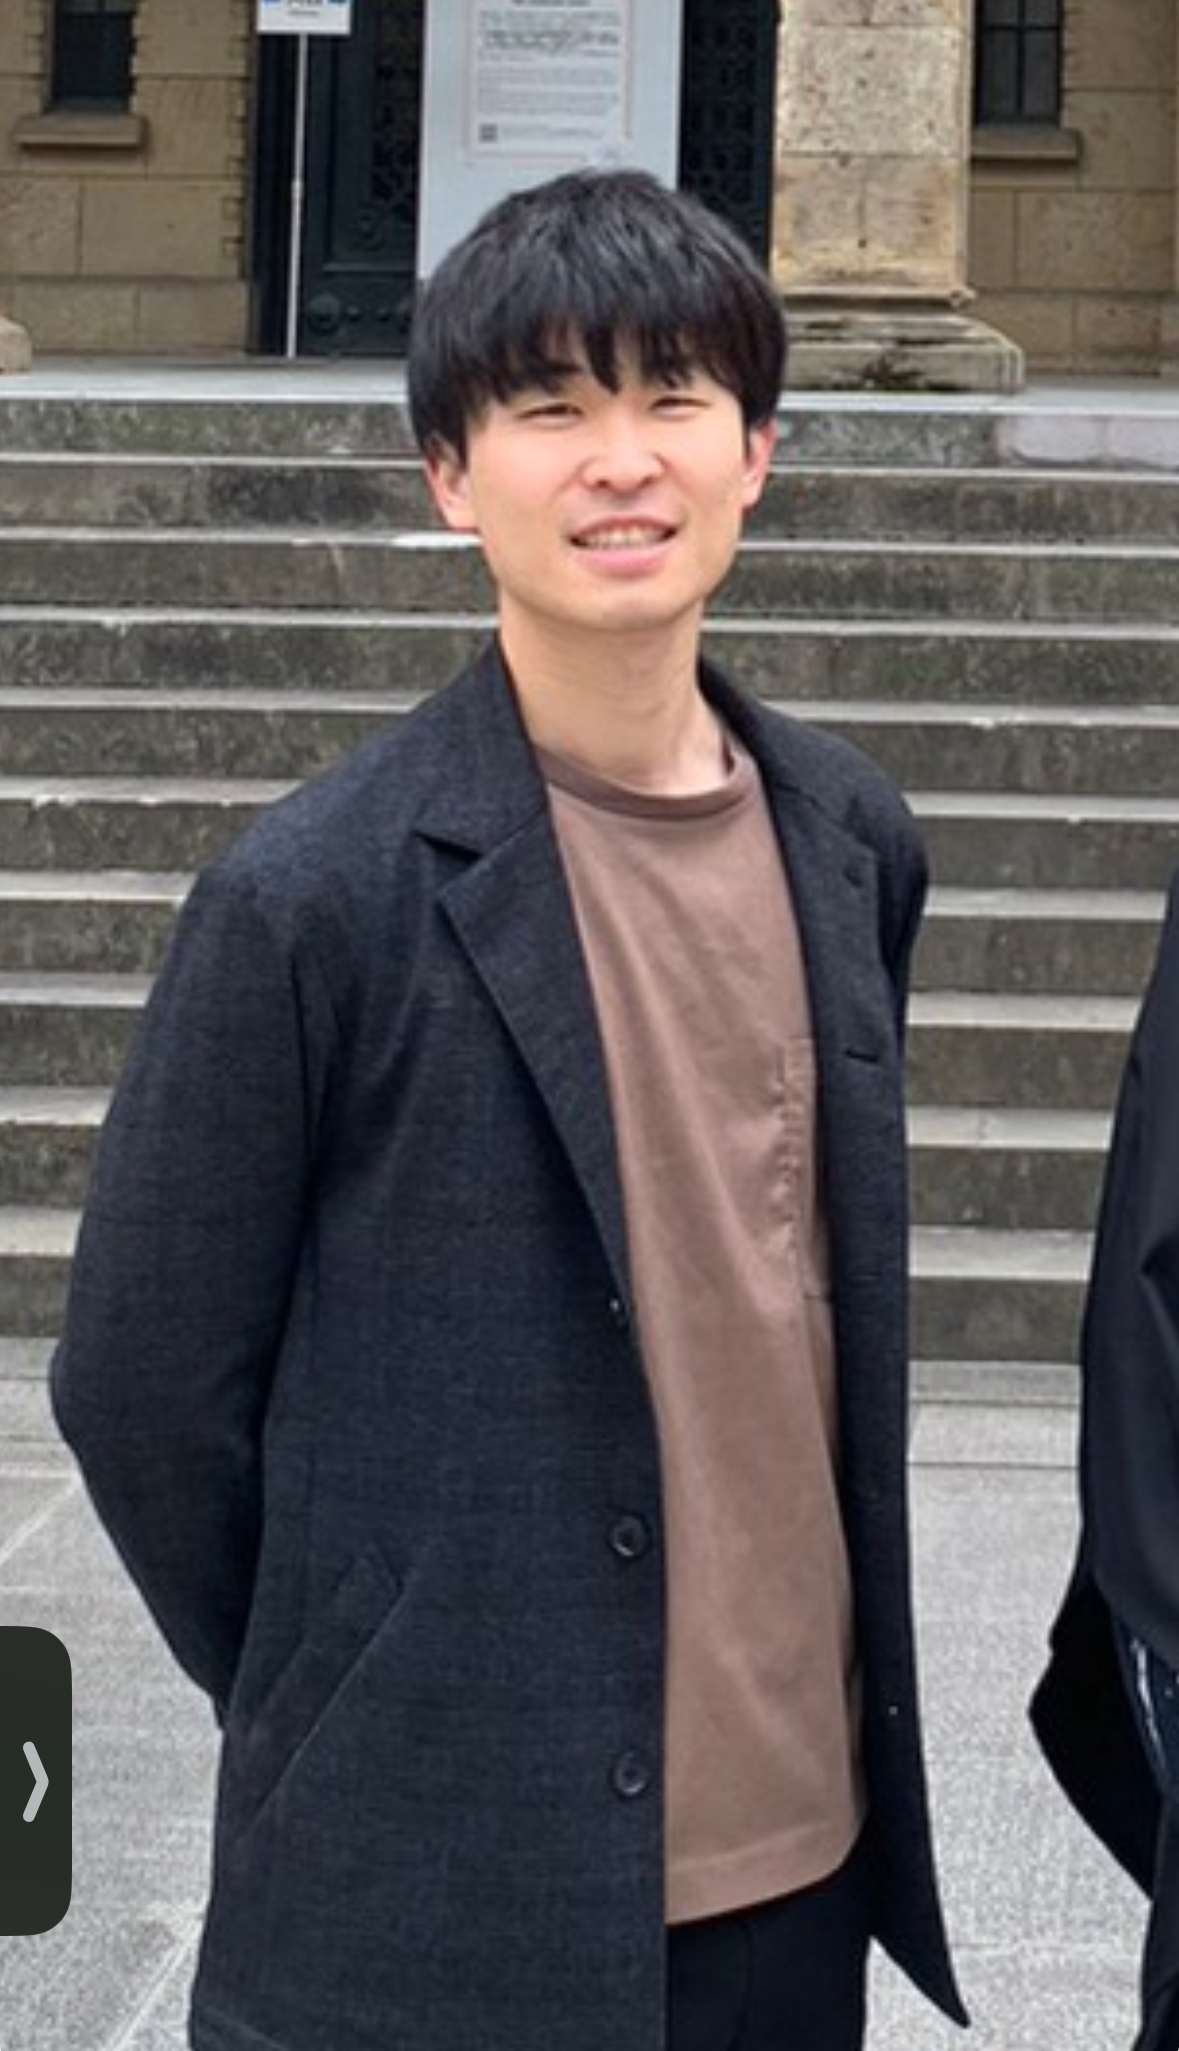
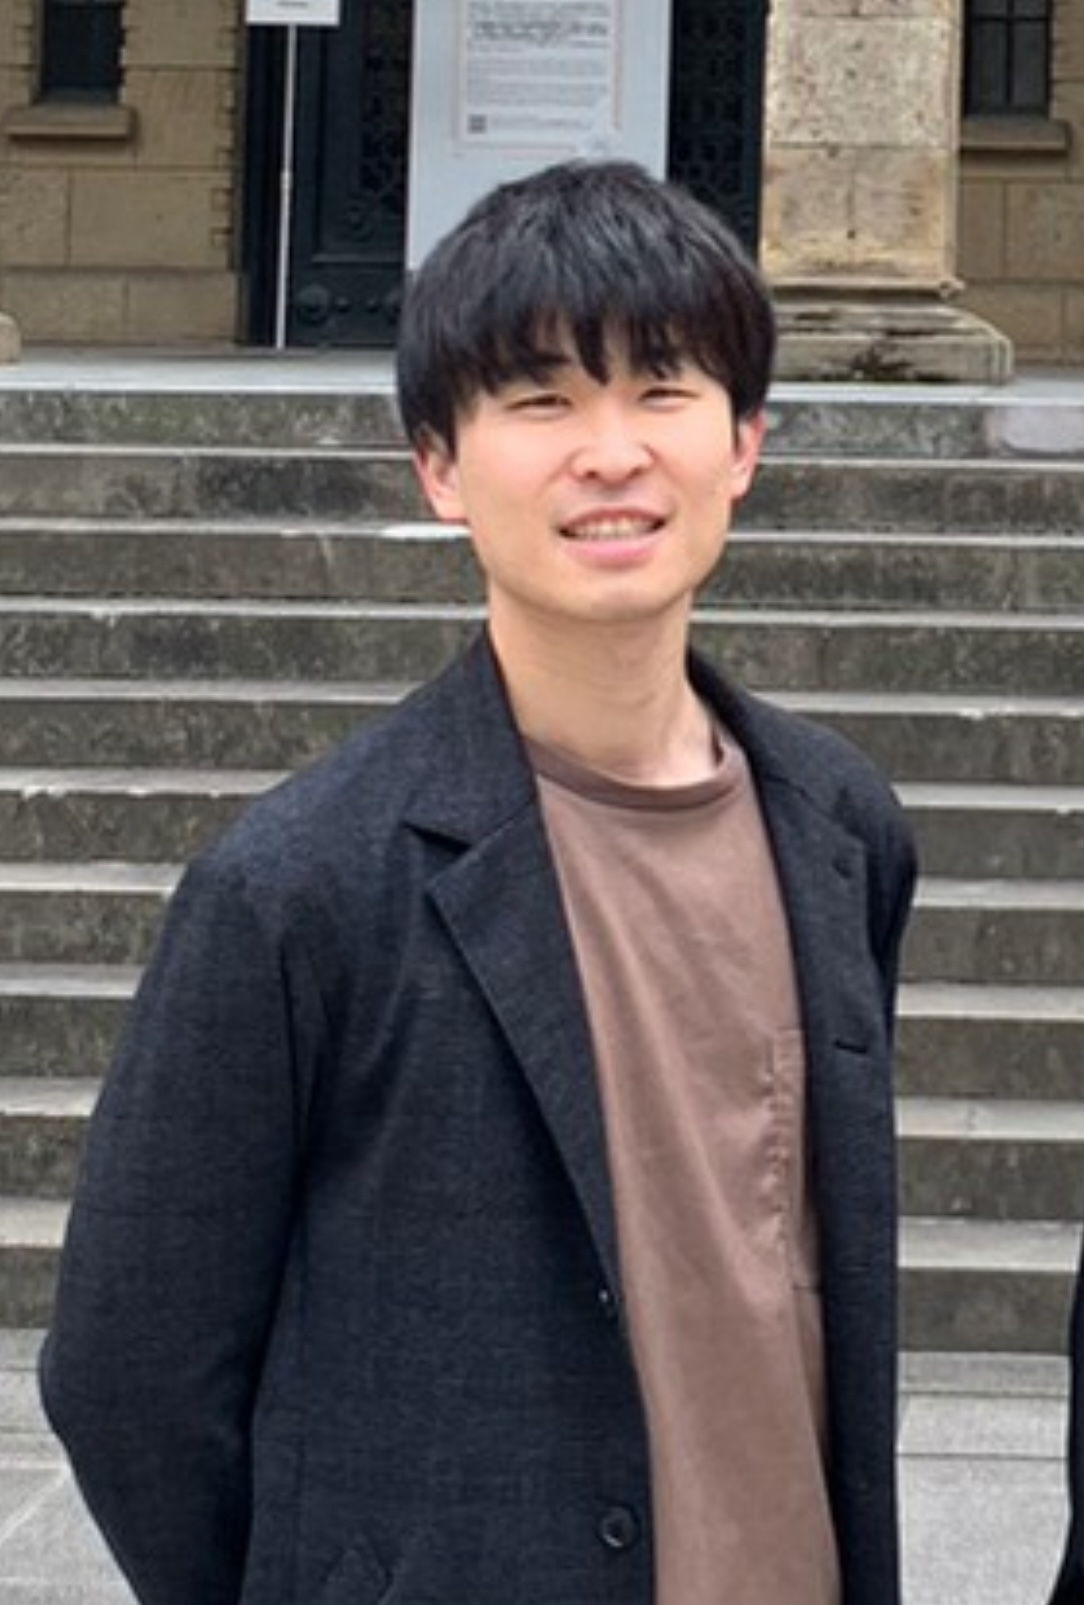
aa

diff --git a/index.html b/index.html
@@ -22,7 +22,7 @@
 
   <div class="main-container">
     <div class="left-column">
-      <img src="/mnt/data/スクリーンショット 2024-06-30 0.23.56.png" alt="Profile Picture">
+      <img src="kose.png" alt="Profile Picture">
     </div>
     <div class="right-column">
       <div class="intro">
